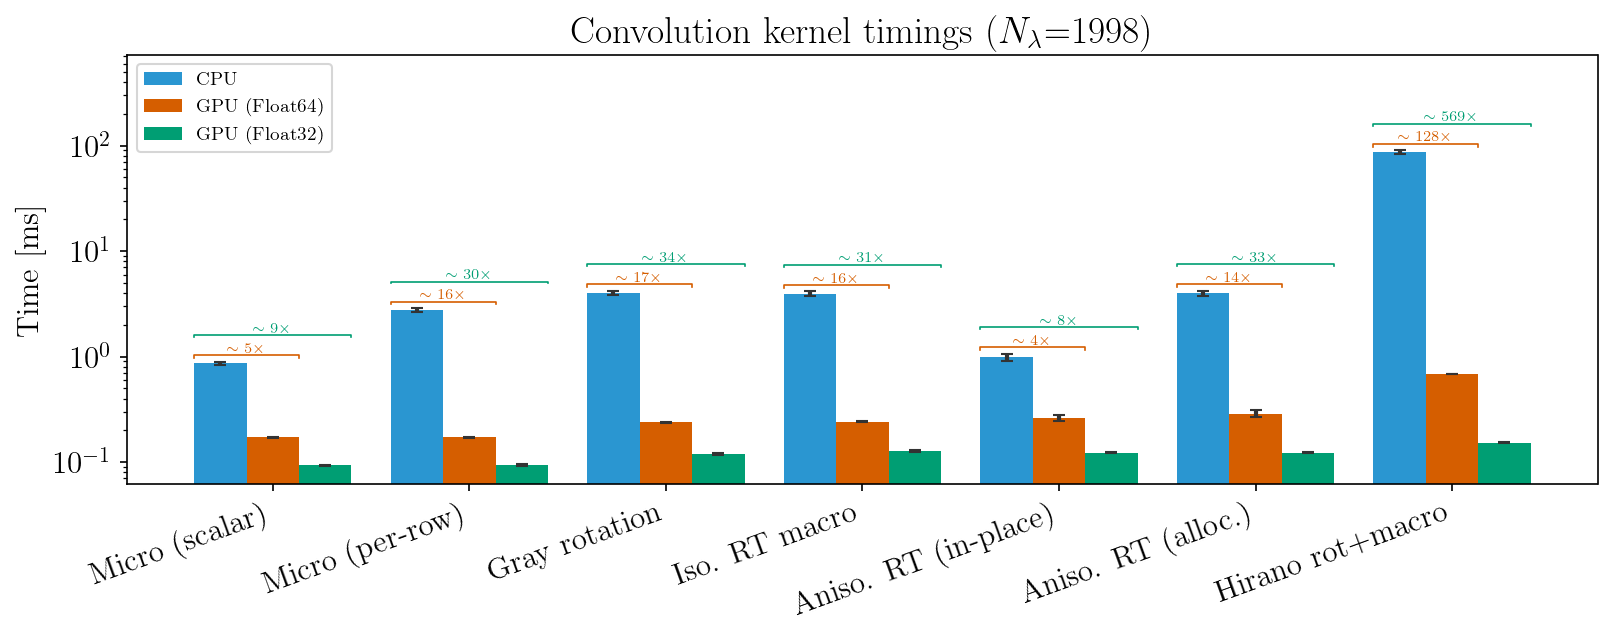
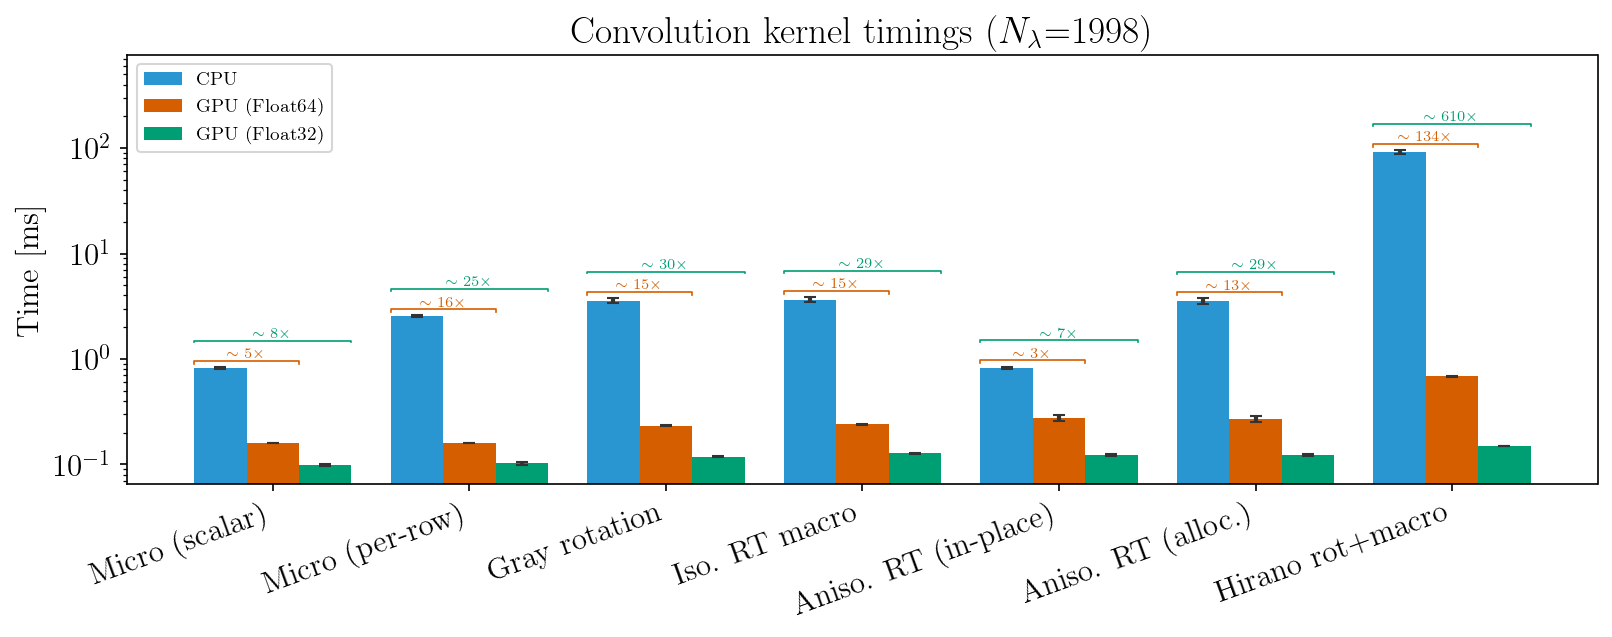
docs

diff --git a/docs/src/parallelization.md b/docs/src/parallelization.md
@@ -83,7 +83,7 @@ The μ loop is serial and short, so unlike the tile loop there is no batch sizin
 
 ## Benchmarks
 
-The results below were obtained on an Intel Xeon w5-3435X (16 cores / 32 threads) with an NVIDIA RTX 6000 Ada (48 GB). Unless a figure states otherwise, benchmarks use the same configuration — a two-line Fe I test spectrum near 6300 Å with `Δλ = 0.005` Å, solar stellar parameters (`vsini = 2100` m/s, `ζ_RT = 3500` m/s, `ξ = 850` m/s), and `Nϕ = 128` — with whichever quantity is being swept varied about it.
+The results below were obtained on an Intel Xeon w5-3435X (16 cores / 32 threads) with an NVIDIA RTX 6000 Ada (48 GB). They all use a two-line Fe I test spectrum near 6300 Å with solar stellar parameters (`vsini = 2100` m/s, `ζ_RT = 3500` m/s, `ξ = 850` m/s) and `Nϕ = 128`, with whichever quantity is being swept varied about that. The wavelength step differs between benchmarks — each script picks a grid appropriate to what it measures, and `Δλ` is itself the swept quantity in the ``N_\lambda`` figure below — so read each script for its own value rather than assuming a shared one.
 
 To reproduce, run `julia --project=. -t auto benchmarks/run_all.jl`. This regenerates every figure on this page as well as the accuracy and timing figures on the [Integration Methods](@ref) page; see the [`benchmarks/`](https://github.com/palumbom/FormationTemps.jl/tree/main/benchmarks) directory for the individual scripts.
 
@@ -114,7 +114,7 @@ Individual broadening kernel timings for each convolution type (CPU vs GPU Float
 ## Performance tips
 
 - **GPU memory**: the first call to `calc_formation_temp` with `use_gpu=true` allocates GPU buffers and cuFFT plans. Subsequent calls with different parameters re-allocate. If GPU memory is tight, use `gpu_precision=Float32` to roughly halve usage.
-- **CPU threads**: CPU disk integration (`method=:disk`) scales well to ~16 threads. Beyond that, FFTW plan contention and memory bandwidth limit gains. FFTW internal threading is disabled during the tile loop — parallelism comes from distributing tiles across Julia threads. `method=:quadrature` and `method=:hirano` thread only inside `compute_alpha!`, so they scale much more weakly with thread count.
+- **CPU threads**: CPU disk integration (`method=:disk`) scales well to ~16 threads — near-linear out to 8 (92% efficiency), reaching 12.5× at 16 (78%). The sweep stops at 16, which is `Sys.CPU_THREADS ÷ 2` on the benchmark machine, so nothing here speaks to the hyperthreaded range above that. FFTW internal threading is disabled during the tile loop — parallelism comes from distributing tiles across Julia threads. `method=:quadrature` and `method=:hirano` thread only inside `compute_alpha!`, so they scale much more weakly with thread count.
 - **Absorption cost**: the `compute_alpha!` call (Korg chemical equilibrium + line absorption) runs on CPU for both paths and scales with the number of spectral lines × `Nλ`. For large linelists, this can dominate total time regardless of GPU acceleration.
 
 ## CPU vs. GPU numerical differences

diff --git a/docs/src/methods.md b/docs/src/methods.md
@@ -10,8 +10,8 @@ the `method` keyword:
 | `method` | description | accuracy | speed |
 |----------|-------------|----------|-------|
 | `:disk` (default) | explicit disk integration over `Nϕ` latitude bins; self-consistent limb darkening | reference | slowest |
-| `:quadrature` | Gauss–Legendre μ-quadrature; reproduces the `:disk` physics | within ~2 K of `:disk` | 18–29× faster than `:disk` on CPU; 9–37× on GPU |
-| `:hirano` | analytic rotation + macroturbulence convolution (needs `u1`, `u2`) | tens of K at moderate `vsini` | fastest, but only ~1.3× over `:quadrature` |
+| `:quadrature` | Gauss–Legendre μ-quadrature; reproduces the `:disk` physics | within ~2 K of `:disk` | 20–35× faster than `:disk` on CPU; 9–34× on GPU |
+| `:hirano` | analytic rotation + macroturbulence convolution (needs `u1`, `u2`) | tens of K at moderate `vsini` | fastest, but only ~1.25× over `:quadrature` on CPU (up to ~2.7× on GPU) |
 
 ```julia
 calc_formation_temp(star, linelist; method=:disk)                      # reference
@@ -38,9 +38,10 @@ All three run on the GPU with `use_gpu=true`.
 - **`:quadrature`** is the one to reach for when `:disk` is too slow: it reproduces the
   `:disk` result — including inclination and differential rotation (set via
   [`StellarProps`](@ref)) — to within about 2 K of worst-pixel formation temperature over
-  `vsini = 0–40` km/s, while running 18–29× faster on CPU. On GPU the margin grows with `Nλ`,
-  from ~9× on the smallest grid tested to ~37× on the largest, since `:disk` has far more work
-  to keep the device busy with. Use Float64; at
+  `vsini = 0–40` km/s, while running 20–35× faster on CPU, the margin widening with `Nλ`. On
+  GPU the speedup runs from ~9× on the smallest grid tested to ~34× on the largest; it trends
+  upward with `Nλ` but not monotonically, since at these sizes both methods are partly launch-
+  and transfer-bound rather than purely compute-bound. Use Float64; at
   `gpu_precision=Float32` it is noticeably less accurate. The reformulation itself is exact
   rather than approximate: radiative transfer is wavelength-local, so a Doppler shift of the
   input opacity shifts the emergent intensity identically, and rotation can therefore be
